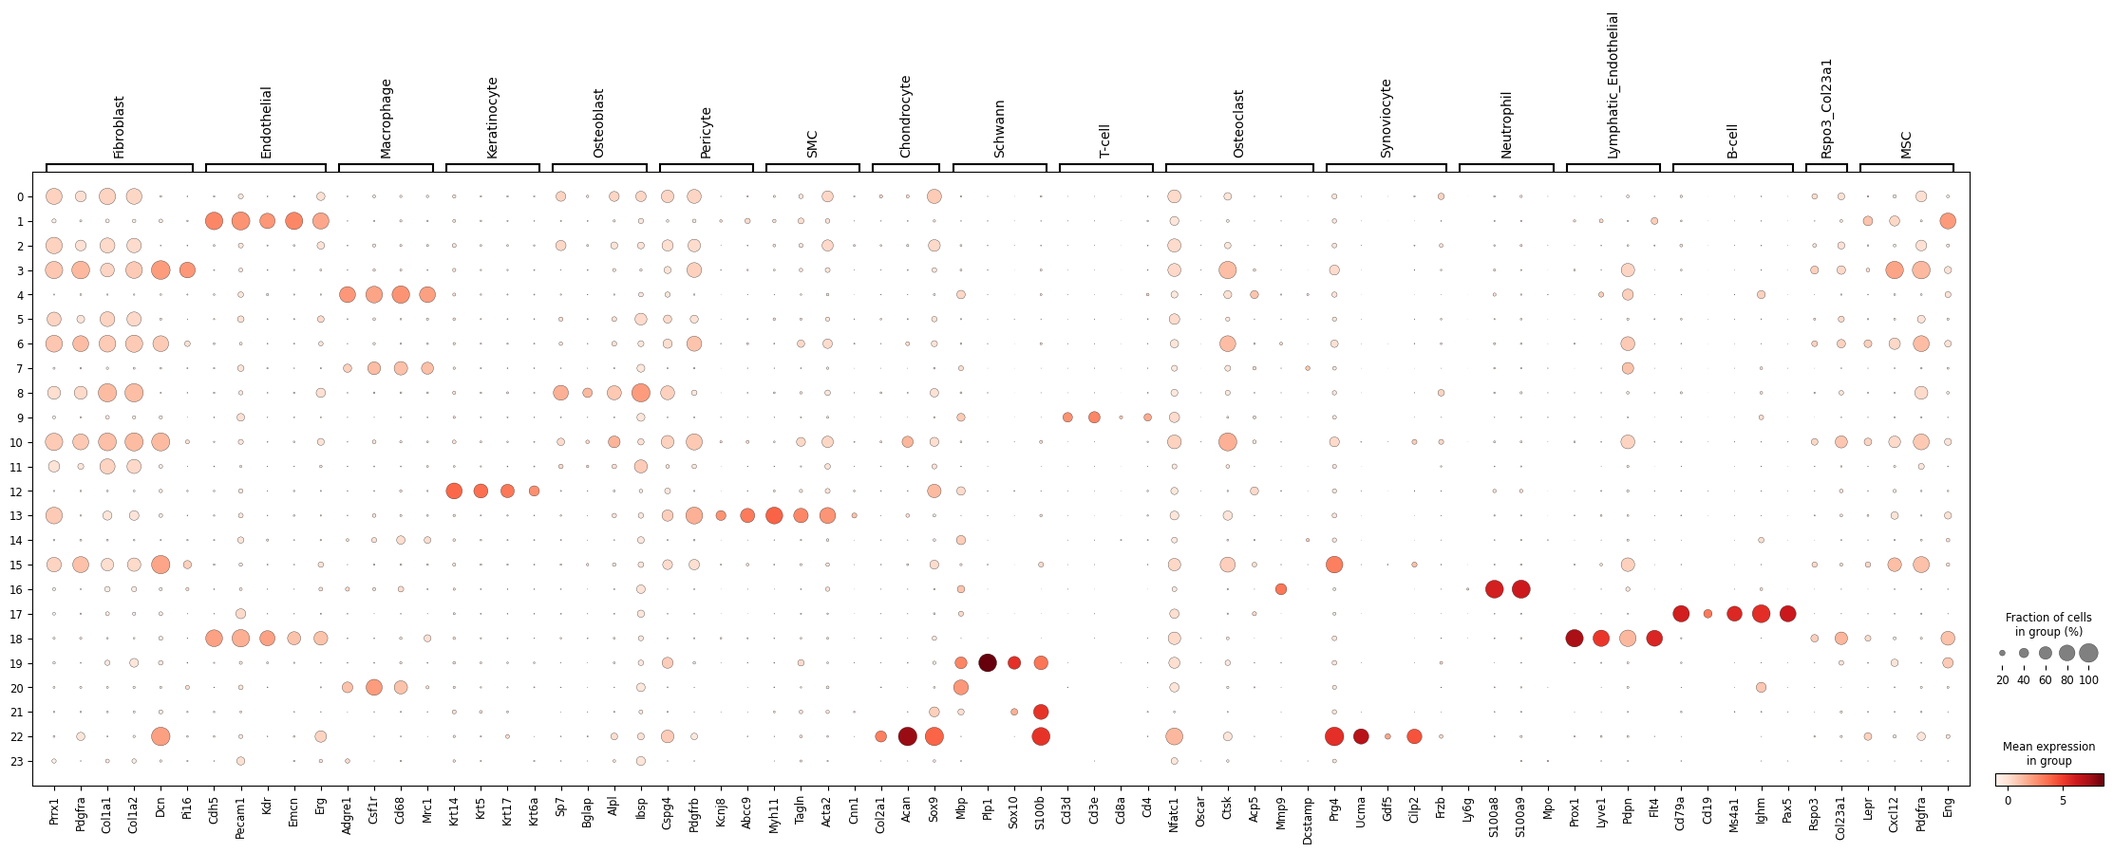
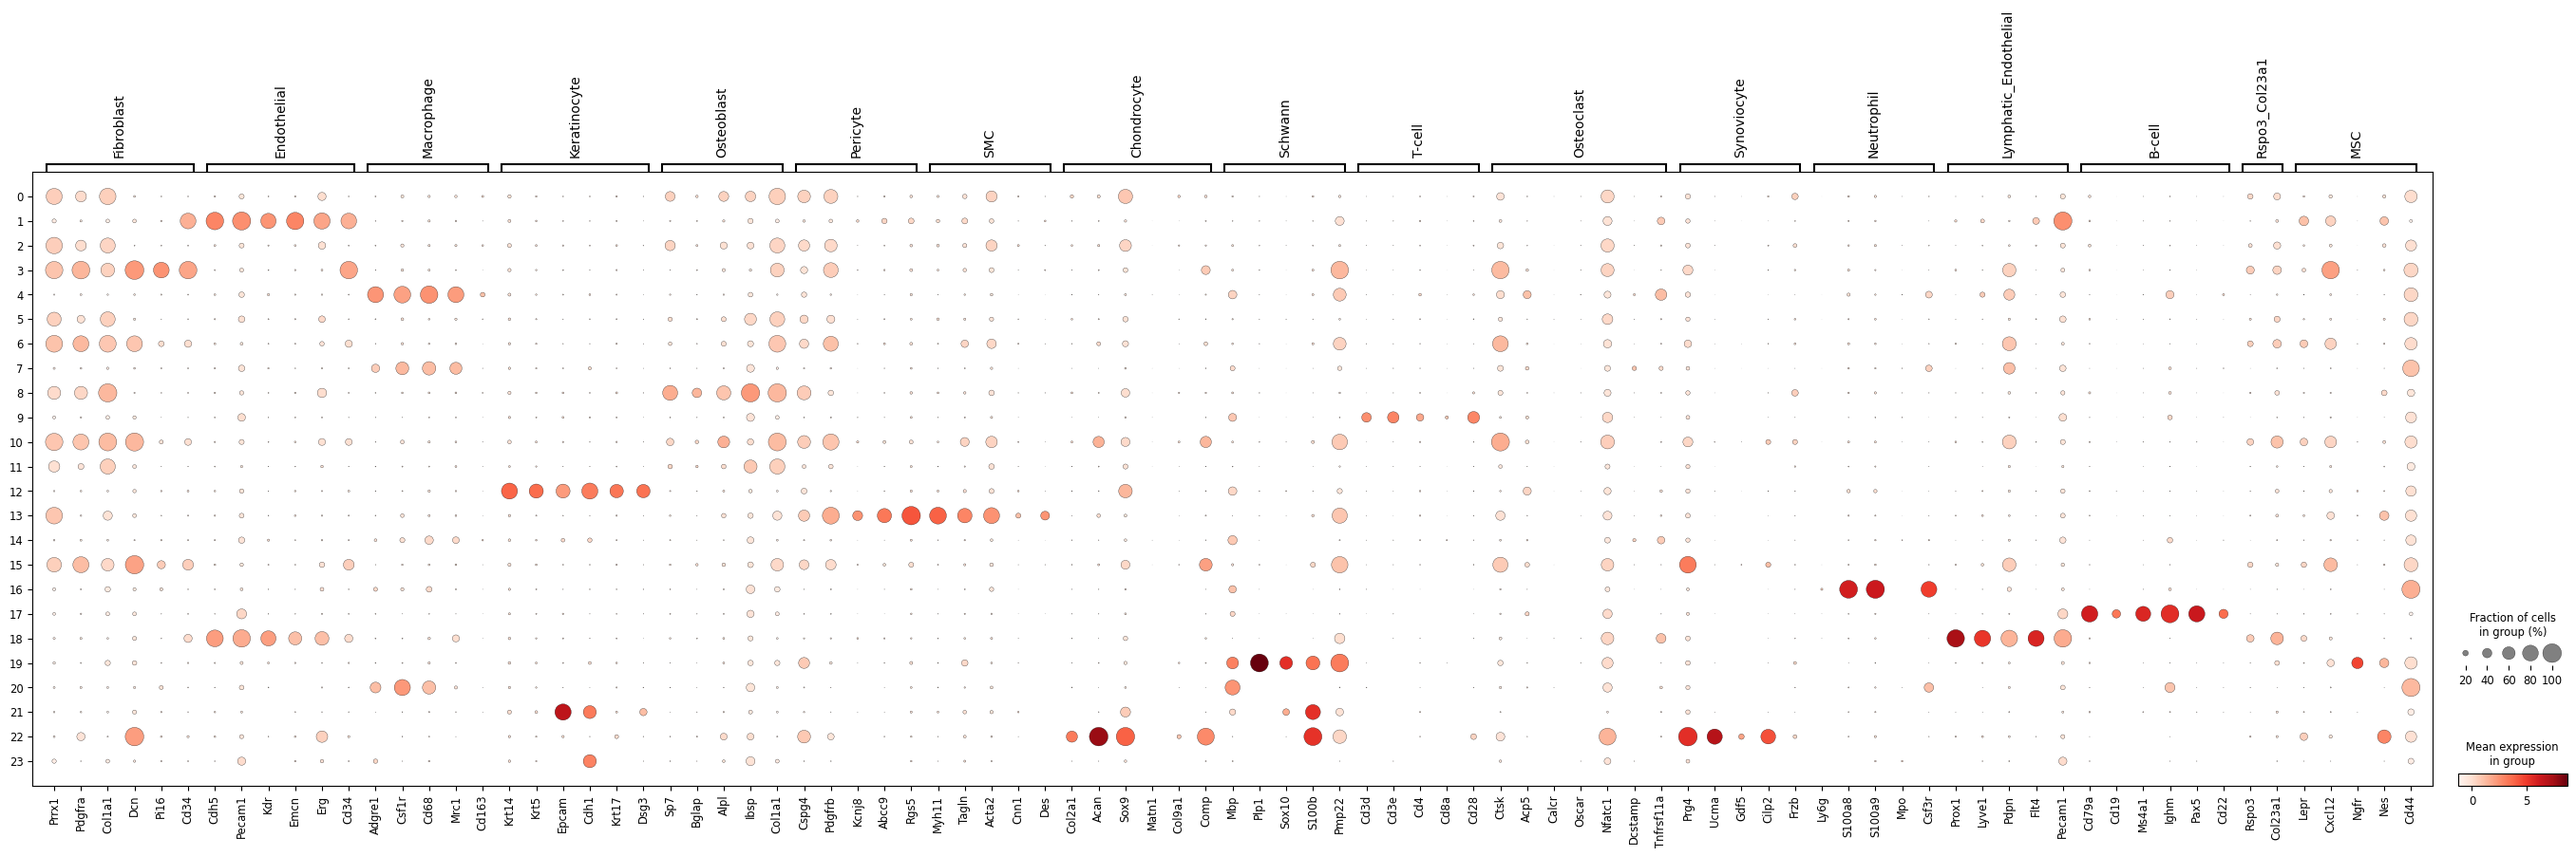
Update markes plots

diff --git a/src/plotMarkers.py b/src/plotMarkers.py
@@ -4,23 +4,23 @@ import argparse
 import scanpy as sc
 
 marker_genes = {
-    "Fibroblast": ["Prrx1", "Pdgfra", "Col1a1", "Col1a2", "Dcn", "Pi16"],
-    "Endothelial": ["Cdh5", "Pecam1", "Kdr", "Emcn", "Erg"],
-    "Macrophage": ["Adgre1", "Csf1r", "Cd68", "Mrc1"],
-    "Keratinocyte": ["Krt14", "Krt5", "Krt17", "Krt6a"],
-    "Osteoblast": ["Sp7", "Bglap", "Alpl", "Ibsp"],
-    "Pericyte": ["Cspg4", "Pdgfrb", "Kcnj8", "Abcc9"],
-    "SMC": ["Myh11", "Tagln", "Acta2", "Cnn1"],
-    "Chondrocyte": ["Col2a1", "Acan", "Sox9"],
-    "Schwann": ["Mbp", "Plp1", "Sox10", "S100b"],
-    "T-cell": ["Cd3d", "Cd3e", "Cd8a", "Cd4"],
-    "Osteoclast": ["Nfatc1", "Oscar", "Ctsk", "Acp5", "Mmp9", "Dcstamp"],
+    "Fibroblast": ["Prrx1", "Pdgfra", "Col1a1", "Dcn", "Pi16", "Cd34"],
+    "Endothelial": ["Cdh5", "Pecam1", "Kdr", "Emcn", "Erg", "Cd34"],
+    "Macrophage": ["Adgre1", "Csf1r", "Cd68", "Mrc1", "Cd163"],
+    "Keratinocyte": ["Krt14", "Krt5", "Epcam", "Cdh1", "Krt17", "Dsg3"],
+    "Osteoblast": ["Sp7", "Bglap", "Alpl", "Ibsp", "Col1a1"],
+    "Pericyte": ["Cspg4", "Pdgfrb", "Kcnj8", "Abcc9", "Rgs5"],
+    "SMC": ["Myh11", "Tagln", "Acta2", "Cnn1", "Des"],
+    "Chondrocyte": ["Col2a1", "Acan", "Sox9", "Matn1", "Col9a1", "Comp"],
+    "Schwann": ["Mbp", "Plp1", "Sox10", "S100b", "Pmp22"],
+    "T-cell": ["Cd3d", "Cd3e", "Cd4", "Cd8a", "Cd28"],
+    "Osteoclast": ["Ctsk", "Acp5", "Calcr", "Oscar", "Nfatc1", "Dcstamp", "Tnfrsf11a"],
     "Synoviocyte": ["Prg4", "Ucma", "Gdf5", "Cilp2", "Frzb"],
-    "Neutrophil": ["Ly6g", "S100a8", "S100a9", "Mpo"],
-    "Lymphatic_Endothelial": ["Prox1", "Lyve1", "Pdpn", "Flt4"],
-    "B-cell": ["Cd79a", "Cd19", "Ms4a1", "Ighm", "Pax5"],
+    "Neutrophil": ["Ly6g", "S100a8", "S100a9", "Mpo", "Csf3r"],
+    "Lymphatic_Endothelial": ["Prox1", "Lyve1", "Pdpn", "Flt4", "Pecam1"],
+    "B-cell": ["Cd79a", "Cd19", "Ms4a1", "Ighm", "Pax5", "Cd22"],
     "Rspo3_Col23a1": ["Rspo3", "Col23a1"],
-    "MSC": ["Lepr", "Cxcl12", "Pdgfra", "Eng"]
+    "MSC": ["Lepr", "Cxcl12", "Ngfr", "Nes", "Cd44", "Scf"]
 }
 
 parser = argparse.ArgumentParser()

diff --git a/README.md b/README.md
@@ -41,11 +41,11 @@ Cells are filtered to remove **low-quality cells**, **dead cells**, and **double
 
 ### Pre-filtering 
 
-![](figures/violin_axt_preQC.png?v=2)
+![](figures/violin_axt_preQC.png?v=3)
 
 ### Post filtering 
 
-![](figures/violin_axt_AfterQC.png?v=2) 
+![](figures/violin_axt_AfterQC.png?v=3) 
 
 ## Analysing 
 
@@ -80,11 +80,11 @@ Cells are filtered to remove **low-quality cells**, **dead cells**, and **double
 - Similar cells cluster together visually
 
 #### UMAP
-![](figures/umap_axt.png?v=2) 
+![](figures/umap_axt.png?v=3) 
 
 #### Per sample UMAP 
 
-<img src="figures/umap_axt_Reg.png?v=2" width="600" /> <img src="figures/umap_axt_nonReg.png?v=2" width="600" />
+<img src="figures/umap_axt_Reg.png?v=3" width="600" /> <img src="figures/umap_axt_nonReg.png?v=3" width="600" />
 
 
 ## Clustering 
@@ -120,7 +120,7 @@ Cells are filtered to remove **low-quality cells**, **dead cells**, and **double
 - **High resolution (e.g. 1.0+)** → more, smaller clusters  
 
 
-![](figures/umap_axt_leiden.png?v=2) 
+![](figures/umap_axt_leiden.png?v=3) 
 
 
 ## QC per Leiden Cluster
@@ -128,7 +128,7 @@ Cells are filtered to remove **low-quality cells**, **dead cells**, and **double
 QC metrics were visualized across Leiden clusters to assess cluster quality.
 Check QC per cluster to spot and remove **low-quality or suspicious cell groups**
 
-<img src="figures/violin_axt_QC_n_genes_by_counts.png?v=2" width="33%" /><img src="figures/violin_axt_QC_total_counts.png?v=2" width="33%" /> <img src="figures/violin_axt_QC_pct_counts_mt.png?v=2" width="33%" />
+<img src="figures/violin_axt_QC_n_genes_by_counts.png?v=3" width="33%" /><img src="figures/violin_axt_QC_total_counts.png?v=3" width="33%" /> <img src="figures/violin_axt_QC_pct_counts_mt.png?v=3" width="33%" />
 
 ## Marker genes 
 
@@ -142,63 +142,83 @@ These markers were then used to validate and assign identities to clusters.
 
 ```python
 marker_genes = {
-    "Fibroblast": ["Prrx1", "Pdgfra", "Col1a1", "Col1a2", "Dcn", "Pi16"],
-    "Endothelial": ["Cdh5", "Pecam1", "Kdr", "Emcn", "Erg"],
-    "Macrophage": ["Adgre1", "Csf1r", "Cd68", "Mrc1"],
-    "Keratinocyte": ["Krt14", "Krt5", "Krt17", "Krt6a"],
-    "Osteoblast": ["Sp7", "Bglap", "Alpl", "Ibsp"],
-    "Pericyte": ["Cspg4", "Pdgfrb", "Kcnj8", "Abcc9"],
-    "SMC": ["Myh11", "Tagln", "Acta2", "Cnn1"],
-    "Chondrocyte": ["Col2a1", "Acan", "Sox9"],
-    "Schwann": ["Mbp", "Plp1", "Sox10", "S100b"],
-    "T-cell": ["Cd3d", "Cd3e", "Cd8a", "Cd4"],
-    "Osteoclast": ["Nfatc1", "Oscar", "Ctsk", "Acp5", "Mmp9", "Dcstamp"],
+    "Fibroblast": ["Prrx1", "Pdgfra", "Col1a1", "Dcn", "Pi16", "Cd34"],
+    "Endothelial": ["Cdh5", "Pecam1", "Kdr", "Emcn", "Erg", "Cd34"],
+    "Macrophage": ["Adgre1", "Csf1r", "Cd68", "Mrc1", "Cd163"],
+    "Keratinocyte": ["Krt14", "Krt5", "Epcam", "Cdh1", "Krt17", "Dsg3"],
+    "Osteoblast": ["Sp7", "Bglap", "Alpl", "Ibsp", "Col1a1"],
+    "Pericyte": ["Cspg4", "Pdgfrb", "Kcnj8", "Abcc9", "Rgs5"],
+    "SMC": ["Myh11", "Tagln", "Acta2", "Cnn1", "Des"],
+    "Chondrocyte": ["Col2a1", "Acan", "Sox9", "Matn1", "Col9a1", "Comp"],
+    "Schwann": ["Mbp", "Plp1", "Sox10", "S100b", "Pmp22"],
+    "T-cell": ["Cd3d", "Cd3e", "Cd4", "Cd8a", "Cd28"],
+    "Osteoclast": ["Ctsk", "Acp5", "Calcr", "Oscar", "Nfatc1", "Dcstamp", "Tnfrsf11a"],
     "Synoviocyte": ["Prg4", "Ucma", "Gdf5", "Cilp2", "Frzb"],
-    "Neutrophil": ["Ly6g", "S100a8", "S100a9", "Mpo"],
-    "Lymphatic_Endothelial": ["Prox1", "Lyve1", "Pdpn", "Flt4"],
-    "B-cell": ["Cd79a", "Cd19", "Ms4a1", "Ighm", "Pax5"],
+    "Neutrophil": ["Ly6g", "S100a8", "S100a9", "Mpo", "Csf3r"],
+    "Lymphatic_Endothelial": ["Prox1", "Lyve1", "Pdpn", "Flt4", "Pecam1"],
+    "B-cell": ["Cd79a", "Cd19", "Ms4a1", "Ighm", "Pax5", "Cd22"],
     "Rspo3_Col23a1": ["Rspo3", "Col23a1"],
-    "MSC": ["Lepr", "Cxcl12", "Pdgfra", "Eng"]
+    "MSC": ["Lepr", "Cxcl12", "Ngfr", "Nes", "Cd44", "Scf"]
 }
 ```
 
 ### Dotplot for marker genes 
 
-![](figures/dotplot__axt_dotplot.png?v=2) 
+![](figures/dotplot__axt_dotplot.png?v=3) 
 
 
 ### Feature plots for marker genes 
 
-<img src="figures/umap_axt_Abcc9.png?v=2" width="33%" /><img src="figures/umap_axt_Cd8a.png?v=2" width="33%" /><img src="figures/umap_axt_Cxcr2.png?v=2" width="33%" />
-<img src="figures/umap_axt_Krt17.png?v=2" width="33%" /><img src="figures/umap_axt_Oscar.png?v=2" width="33%" /><img src="figures/umap_axt_Runx2.png?v=2" width="33%" />
+<img src="figures/umap_axt_Abcc9.png?v=3" width="33%" /><img src="figures/umap_axt_Cd4.png?v=3" width="33%" /><img src="figures/umap_axt_Csf1r.png?v=3" width="33%" />
+<img src="figures/umap_axt_Ibsp.png?v=3" width="33%" /><img src="figures/umap_axt_Mrc1.png?v=3" width="33%" /><img src="figures/umap_axt_Prox1.png?v=3" width="33%" />
 
-<img src="figures/umap_axt_Acan.png?v=2" width="33%" /><img src="figures/umap_axt_Cdh5.png?v=2" width="33%" /><img src="figures/umap_axt_Dcn.png?v=2" width="33%" />
-<img src="figures/umap_axt_Krt5.png?v=2" width="33%" /><img src="figures/umap_axt_Pax5.png?v=2" width="33%" /><img src="figures/umap_axt_S100a8.png?v=2" width="33%" />
+<img src="figures/umap_axt_Acan.png?v=3" width="33%" /><img src="figures/umap_axt_Cd68.png?v=3" width="33%" /><img src="figures/umap_axt_Csf3r.png?v=3" width="33%" />
+<img src="figures/umap_axt_Ighm.png?v=3" width="33%" /><img src="figures/umap_axt_Ms4a1.png?v=3" width="33%" /><img src="figures/umap_axt_Prrx1.png?v=3" width="33%" />
 
-<img src="figures/umap_axt_Acp5.png?v=2" width="33%" /><img src="figures/umap_axt_Dcstamp.png?v=2" width="33%" /><img src="figures/umap_axt_Krt6a.png?v=2" width="33%" />
-<img src="figures/umap_axt_Pdgfra.png?v=2" width="33%" /><img src="figures/umap_axt_S100a9.png?v=2" width="33%" /><img src="figures/umap_axt_S100b.png?v=2" width="33%" />
+<img src="figures/umap_axt_Acp5.png?v=3" width="33%" /><img src="figures/umap_axt_Cd79a.png?v=3" width="33%" /><img src="figures/umap_axt_Cspg4.png?v=3" width="33%" />
+<img src="figures/umap_axt_Il2rb.png?v=3" width="33%" /><img src="figures/umap_axt_Myh11.png?v=3" width="33%" /><img src="figures/umap_axt_Reg.png?v=3" width="33%" />
 
-<img src="figures/umap_axt_Acta1.png?v=2" width="33%" /><img src="figures/umap_axt_Emcn.png?v=2" width="33%" /><img src="figures/umap_axt_leiden.png?v=2" width="33%" />
-<img src="figures/umap_axt_Pdgfrb.png?v=2" width="33%" /><img src="figures/umap_axt_Cilp2.png?v=2" width="33%" /><img src="figures/umap_axt_Eng.png?v=2" width="33%" />
+<img src="figures/umap_axt_Acta1.png?v=3" width="33%" /><img src="figures/umap_axt_Cd8a.png?v=3" width="33%" /><img src="figures/umap_axt_Ctsk.png?v=3" width="33%" />
+<img src="figures/umap_axt_Kcnj8.png?v=3" width="33%" /><img src="figures/umap_axt_Nes.png?v=3" width="33%" /><img src="figures/umap_axt_Rgs5.png?v=3" width="33%" />
 
-<img src="figures/umap_axt_Erg.png?v=2" width="33%" /><img src="figures/umap_axt_Ly6g.png?v=2" width="33%" /><img src="figures/umap_axt_Pecam1.png?v=2" width="33%" />
-<img src="figures/umap_axt_Adgre1.png?v=2" width="33%" /><img src="figures/umap_axt_Cnn1.png?v=2" width="33%" /><img src="figures/umap_axt_Lyve1.png?v=2" width="33%" />
+<img src="figures/umap_axt_Acta2.png?v=3" width="33%" /><img src="figures/umap_axt_Cdh1.png?v=3" width="33%" /><img src="figures/umap_axt_Cxcl12.png?v=3" width="33%" />
+<img src="figures/umap_axt_Kdr.png?v=3" width="33%" /><img src="figures/umap_axt_Nfatc1.png?v=3" width="33%" /><img src="figures/umap_axt_Rspo3.png?v=3" width="33%" />
 
-<img src="figures/umap_axt_Alpl.png?v=2" width="33%" /><img src="figures/umap_axt_Col10a1.png?v=2" width="33%" /><img src="figures/umap_axt_Pi16.png?v=2" width="33%" />
-<img src="figures/umap_axt_Bglap.png?v=2" width="33%" /><img src="figures/umap_axt_Col1a1.png?v=2" width="33%" /><img src="figures/umap_axt_Plp1.png?v=2" width="33%" />
+<img src="figures/umap_axt_Adgre1.png?v=3" width="33%" /><img src="figures/umap_axt_Cdh5.png?v=3" width="33%" /><img src="figures/umap_axt_Cxcr2.png?v=3" width="33%" />
+<img src="figures/umap_axt_Krt14.png?v=3" width="33%" /><img src="figures/umap_axt_Ngfr.png?v=3" width="33%" /><img src="figures/umap_axt_Runx2.png?v=3" width="33%" />
 
-<img src="figures/umap_axt_Cd163.png?v=2" width="33%" /><img src="figures/umap_axt_Col1a2.png?v=2" width="33%" /><img src="figures/umap_axt_Pmp22.png?v=2" width="33%" />
-<img src="figures/umap_axt_Cd19.png?v=2" width="33%" /><img src="figures/umap_axt_Col23a1.png?v=2" width="33%" /><img src="figures/umap_axt_Prg4.png?v=2" width="33%" />
+<img src="figures/umap_axt_Alpl.png?v=3" width="33%" /><img src="figures/umap_axt_celltypeON.png?v=3" width="33%" /><img src="figures/umap_axt_Dcn.png?v=3" width="33%" />
+<img src="figures/umap_axt_Krt17.png?v=3" width="33%" /><img src="figures/umap_axt_nonReg.png?v=3" width="33%" /><img src="figures/umap_axt_S100a8.png?v=3" width="33%" />
 
-<img src="figures/umap_axt_Cd3d.png?v=2" width="33%" /><img src="figures/umap_axt_Col2a1.png?v=2" width="33%" /><img src="figures/umap_axt_Prox1.png?v=2" width="33%" />
-<img src="figures/umap_axt_Cd3e.png?v=2" width="33%" /><img src="figures/umap_axt_Csf1r.png?v=2" width="33%" /><img src="figures/umap_axt_Prrx1.png?v=2" width="33%" />
+<img src="figures/umap_axt_Bglap.png?v=3" width="33%" /><img src="figures/umap_axt_celltype.png?v=3" width="33%" /><img src="figures/umap_axt_Dcstamp.png?v=3" width="33%" />
+<img src="figures/umap_axt_Krt5.png?v=3" width="33%" /><img src="figures/umap_axt_Oscar.png?v=3" width="33%" /><img src="figures/umap_axt_S100a9.png?v=3" width="33%" />
 
-<img src="figures/umap_axt_Cd4.png?v=2" width="33%" /><img src="figures/umap_axt_Cspg4.png?v=2" width="33%" /><img src="figures/umap_axt_Kcnj8.png?v=2" width="33%" />
-<img src="figures/umap_axt_Cd68.png?v=2" width="33%" /><img src="figures/umap_axt_Ctsk.png?v=2" width="33%" /><img src="figures/umap_axt_Kdr.png?v=2" width="33%" />
+<img src="figures/umap_axt_Calcr.png?v=3" width="33%" /><img src="figures/umap_axt_Cilp2.png?v=3" width="33%" /><img src="figures/umap_axt_Des.png?v=3" width="33%" />
+<img src="figures/umap_axt_Krt6a.png?v=3" width="33%" /><img src="figures/umap_axt_Pax5.png?v=3" width="33%" /><img src="figures/umap_axt_S100b.png?v=3" width="33%" />
 
-<img src="figures/umap_axt_Cd79a.png?v=2" width="33%" /><img src="figures/umap_axt_Cxcl12.png?v=2" width="33%" /><img src="figures/umap_axt_Krt14.png?v=2" width="33%" />
-<img src="figures/umap_axt_Cd3e.png?v=2" width="33%" /><img src="figures/umap_axt_Rgs5.png?v=2" width="33%" /><img src="figures/umap_axt_Rspo3.png?v=2" width="33%" />
+<img src="figures/umap_axt_Cd163.png?v=3" width="33%" /><img src="figures/umap_axt_Cnn1.png?v=3" width="33%" /><img src="figures/umap_axt_Dsg3.png?v=3" width="33%" />
+<img src="figures/umap_axt_leiden.png?v=3" width="33%" /><img src="figures/umap_axt_Pdgfra.png?v=3" width="33%" /><img src="figures/umap_axt_Sox10.png?v=3" width="33%" />
 
+<img src="figures/umap_axt_Cd19.png?v=3" width="33%" /><img src="figures/umap_axt_Col10a1.png?v=3" width="33%" /><img src="figures/umap_axt_Emcn.png?v=3" width="33%" />
+<img src="figures/umap_axt_Lepr.png?v=3" width="33%" /><img src="figures/umap_axt_Pdgfrb.png?v=3" width="33%" /><img src="figures/umap_axt_Sox9.png?v=3" width="33%" />
+
+<img src="figures/umap_axt_Cd22.png?v=3" width="33%" /><img src="figures/umap_axt_Col1a1.png?v=3" width="33%" /><img src="figures/umap_axt_Eng.png?v=3" width="33%" />
+<img src="figures/umap_axt_Ly6g.png?v=3" width="33%" /><img src="figures/umap_axt_Pdpn.png?v=3" width="33%" /><img src="figures/umap_axt_Sp7.png?v=3" width="33%" />
+
+<img src="figures/umap_axt_Cd28.png?v=3" width="33%" /><img src="figures/umap_axt_Col1a2.png?v=3" width="33%" /><img src="figures/umap_axt_Epcam.png?v=3" width="33%" />
+<img src="figures/umap_axt_Lyve1.png?v=3" width="33%" /><img src="figures/umap_axt_Pecam1.png?v=3" width="33%" /><img src="figures/umap_axt_Tagln.png?v=3" width="33%" />
+
+<img src="figures/umap_axt_Cd34.png?v=3" width="33%" /><img src="figures/umap_axt_Col23a1.png?v=3" width="33%" /><img src="figures/umap_axt_Erg.png?v=3" width="33%" />
+<img src="figures/umap_axt_Matn1.png?v=3" width="33%" /><img src="figures/umap_axt_Pi16.png?v=3" width="33%" /><img src="figures/umap_axt_Thy1.png?v=3" width="33%" />
+
+<img src="figures/umap_axt_Cd3d.png?v=3" width="33%" /><img src="figures/umap_axt_Col2a1.png?v=3" width="33%" /><img src="figures/umap_axt_Flt4.png?v=3" width="33%" />
+<img src="figures/umap_axt_Mbp.png?v=3" width="33%" /><img src="figures/umap_axt_Plp1.png?v=3" width="33%" /><img src="figures/umap_axt_Tnfrsf11a.png?v=3" width="33%" />
+
+<img src="figures/umap_axt_Cd3e.png?v=3" width="33%" /><img src="figures/umap_axt_Col9a1.png?v=3" width="33%" /><img src="figures/umap_axt_Frzb.png?v=3" width="33%" />
+<img src="figures/umap_axt_Mmp9.png?v=3" width="33%" /><img src="figures/umap_axt_Pmp22.png?v=3" width="33%" /><img src="figures/umap_axt_Traf6.png?v=3" width="33%" />
+
+<img src="figures/umap_axt_Cd44.png?v=3" width="33%" /><img src="figures/umap_axt_Comp.png?v=3" width="33%" /><img src="figures/umap_axt_Gdf5.png?v=3" width="33%" />
+<img src="figures/umap_axt_Mpo.png?v=3" width="33%" /><img src="figures/umap_axt_Prg4.png?v=3" width="33%" /><img src="figures/umap_axt_Ucma.png?v=3" width="33%" />
 
 
 
